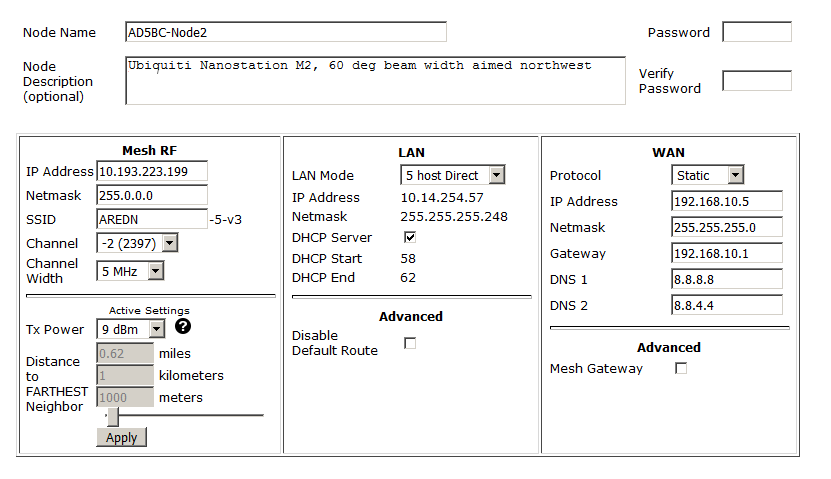
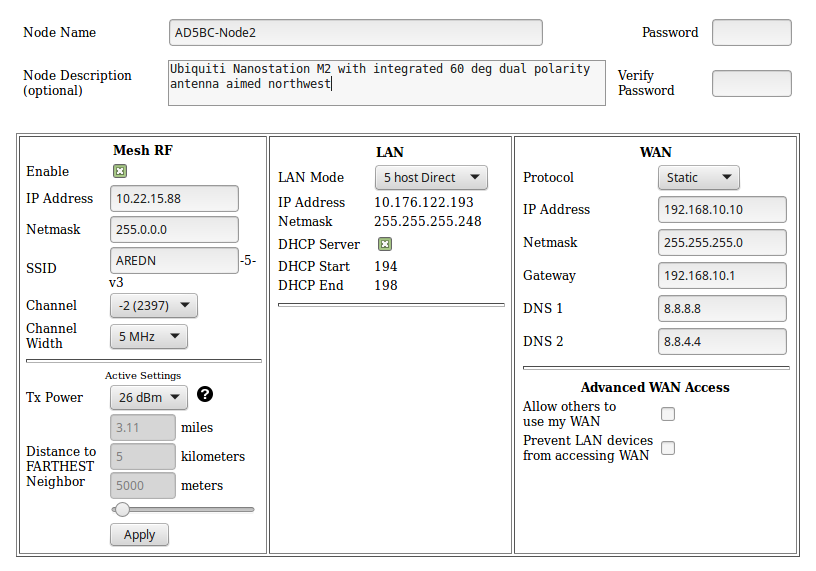
Add nightly build features
Add nightly build features for SNR sound control and Basic Setup 
screens.

diff --git a/arednGettingStarted/advanced_config.rst b/arednGettingStarted/advanced_config.rst
@@ -37,9 +37,17 @@ You have already configured many of the basic settings, but there are several ad
 Mesh RF Column
 ^^^^^^^^^^^^^^
 
-*Mesh RF* is the node's *radio* interface. The AREDN |trade| firmware has been designed to simplify the process of configuring networking interfaces. Network values are automatically calculated based on the unique :abbr:`MAC (Media Access Control)` addresses of your node. Normally you will not need to change any of the network settings on this page, so keep these values unless you fully understand how the mesh works and why the defaults may not be suitable for your situation.
+*Mesh RF* is the node's *radio* interface. The AREDN |trade| firmware has been designed to simplify the process of configuring networking interfaces. Network values are automatically calculated based on the unique :abbr:`MAC (Media Access Control)` addresses of your node. You may need to change the *Channel* and possibly the *Channel Width* parameters to match those of your local AREDN |trade| mesh, as explained previously in the **Basic Radio Setup** section. Normally you will not need to change the other network settings on this page, so keep these values unless you fully understand how the mesh works and why the defaults may not be suitable for your situation.
 
-The *Active Settings* can be adjusted and applied without saving changes or rebooting your node. However, they will return to their original values after a reboot unless you click *Save Changes*. A node may decrease its output power as it increases its data rate in order to maintain a linear spectrum. The *Distance* setting increases the packet retry timer to allow stations that are farther away more time to respond.
+The *Active Settings* can be adjusted and applied without saving changes or rebooting your node. However, they will return to their original values after a reboot unless you click *Save Changes*. A node may decrease its output power as it increases its data rate in order to maintain a linear spectrum. The *Distance* setting, which must be a value greater than zero, increases the packet retry timer to allow stations that are farther away more time to respond.
+
+.. image:: _images/07a-lanAP-on.png
+   :alt: LAN AP Settings
+   :align: left
+
+You can disable your node's radio interface by deselecting the *Enable* checkbox, saving your changes, and rebooting the node. With the Mesh RF interface disabled the *Active Settings* no longer apply and will disappear. However, you will notice that a new section appears which allows you to use the node's radio as an FCC Part 15 *LAN Access Point*. You can enable or disable the LAN AP using the *Enable* checkbox. See the details below for configuring the LAN Access Point.
+
+----------
 
 LAN Column
 ^^^^^^^^^^
@@ -56,7 +64,7 @@ The other LAN Mode is ``NAT``, and in this mode the LAN is isolated from the mes
 
 By default each node runs a :abbr:`DHCP (Dynamic Host Control Protocol)` server for its LAN interface, which lets the node assign IP addresses automatically for devices connected to the node's local area network. The last octet of the start/end range for host IP addresses is shown in the LAN column. If you choose to disable the DHCP server, you must manually configure the host IP addresses to be within the LAN network range. There should be only one DHCP server for each IP address scope or range, so you may need to disable your node's DHCP server if there is already another device providing DHCP services on your node's local area network. Click this link for additional information on `Dynamic Host Control Protocol <https://en.wikipedia.org/wiki/Dynamic_Host_Configuration_Protocol>`_.
 
-The *Disable Default Route* checkbox will tell the node not to advertise that it can be used as a default gateway. This means that computers on the LAN network will have no route to reach the Internet or other networks via the mesh node. If this checkbox is selected your hosts will not be able to access the Internet even if your node has Internet available on its WAN port. You may need to disable the default route if your node needs to be connected to two networks at once, such as being wired to the mesh and connected to a local served agency WiFi network.
+If you enabled the *LAN Access Point* feature, edit the access point's SSID, channel, encryption method, and password. Click *Save Changes* to write your information to the node's configuration, and a node reboot will also be required. Now wireless devices can connect to your node through this new WiFi AP, and their DHCP IP address will be assigned by the node's DHCP server. If your node hardware has two radios, for example the *Mikrotik hAP ac lite* with both 2.4 and 5.8 GHz radios in a single unit, the *LAN Access Point* section will always be visible whether or not your *Mesh RF* interface is enabled.
 
 WAN Column
 ^^^^^^^^^^
@@ -65,7 +73,9 @@ The :abbr:`WAN (Wide Area Network)` interface on your node is typically used to 
 
 If you are not going to use the WAN interface on your node, you can select *disabled* from the *Protocol* dropdown list. If you will be using your node as a *Tunnel Server*, you should assign the node a *Static* IP address on your WAN network. This will be explained in the *Tunnel Server* section below.
 
-When a node has Internet access from either the WAN or LAN interface, that access is available to the node itself and to any computers connected via the *LAN* port. Checking the *Mesh Gateway* box will also allow this node to route traffic from the *Mesh RF* interface to/from the Internet or other external network. By default the *Mesh Gateway* box is unchecked because it is not desirable to route Internet traffic over the radio interface. AREDN |trade| is an FCC Part 97 amateur radio network, so be sure that any traffic which will be sent over the radio complies with FCC Part 97 rules. If you want local wireless Internet access, consider using a standard FCC Part 15 compliant access point instead of the node's *Mesh Gateway* feature.
+When a node has Internet access on its WAN interface, that access is available to the node itself and to any computers connected via the LAN port. Checking the *Allow others to use my WAN* box will allow this node to route traffic from all its interfaces to/from the Internet or other external network. This box is unchecked by default because it is not desirable to route Internet traffic over the radio interface. AREDN |trade| is an FCC Part 97 amateur radio network, so be sure that any traffic which will be sent over the radio complies with FCC Part 97 rules. If you want local wireless Internet access, consider using an FCC Part 15 access point instead of the node's WAN gateway.
+
+The *Prevent LAN devices from accessing WAN* checkbox will tell the node not to advertise that it can be used as a default gateway. This means that computers on the LAN network will lose their route to the Internet or other networks via your mesh node. This checkbox is deselected by default. If this checkbox is selected your LAN hosts will have no access to the Internet even if your node has Internet access on its WAN interface. You may need to disable the default route if your node needs to be connected to two networks at once, such as being wired to the mesh and connected to a local served agency WiFi network.
 
 Node VLANs
 ^^^^^^^^^^
